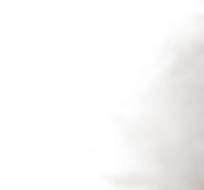
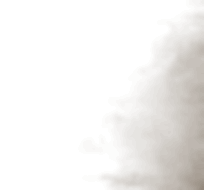
Add files via upload

Changed region(s): [[0.5882, 0.2105, 1.0, 1.0], [0.7941, 0.6316, 0.8235, 0.6579], [0.7647, 0.6842, 0.7941, 0.7105]]

diff --git a/src/styles/menu.css b/src/styles/menu.css
@@ -114,7 +114,8 @@
   top: 0;
   width: 30%;
   height: auto;
-  opacity: 0.55;
+  mix-blend-mode: multiply;
+  opacity: 0.8;
 }
 
 .backdrop-mountain {
@@ -123,7 +124,8 @@
   top: 2%;
   width: 40%;
   height: auto;
-  opacity: 0.55;
+  mix-blend-mode: multiply;
+  opacity: 0.75;
 }
 
 /* 棋盘背后的暖光晕:模拟参考图里棋盘周围那圈打光,比棋盘本身大一圈,
@@ -220,22 +222,34 @@
 }
 
 .hero-board-wrap {
+  position: relative;
   width: 94%;
   max-width: 400px;
   animation: hero-settle 900ms cubic-bezier(0.22, 1, 0.36, 1) both;
 }
 
+/* 棋盘正下方的深色接触阴影椭圆,压在棋盘底边一点点,制造"棋盘边缘
+   陷进阴影里"的贴合感,而不是悬空的一整块投影 */
+.hero-board-shadow {
+  position: absolute;
+  left: 8%;
+  right: 8%;
+  bottom: 2%;
+  height: 14%;
+  border-radius: 50%;
+  background: radial-gradient(ellipse closest-side, rgba(40, 26, 12, 0.55), rgba(40, 26, 12, 0.22) 60%, transparent 85%);
+  mix-blend-mode: multiply;
+  filter: blur(6px);
+  z-index: 0;
+}
+
 .hero-board-photo {
+  position: relative;
+  z-index: 1;
   display: block;
   width: 100%;
   height: auto;
-  /* 抠图之后图片本身只剩棋盘和它最贴身的一点点阴影,不再带大范围的
-     投影渐变——所以这里的投影不能太克制,得靠两层 drop-shadow 叠出
-     "棋盘真的搁在桌面上"的重量感:一层贴近棋盘边缘、颜色深一点，
-     模拟接触阴影;一层范围更大、更淡，模拟环境光扩散 */
-  filter:
-    drop-shadow(0 8px 10px rgba(30, 20, 8, 0.30))
-    drop-shadow(0 26px 30px rgba(30, 20, 8, 0.28));
+  filter: drop-shadow(0 10px 14px rgba(30, 20, 8, 0.22));
 }
 
 @keyframes hero-settle {

diff --git a/src/components/HeroBoard.jsx b/src/components/HeroBoard.jsx
@@ -12,6 +12,13 @@ export default function HeroBoard() {
   return (
     <div className="hero-board-outer">
       <div className="hero-board-wrap">
+        {/* 独立的接触阴影:抠图之后棋盘图片本身不再带阴影渐变,单靠图片
+            上的 CSS filter drop-shadow 在偏暖偏深的背景上对比度不够,
+            肉眼几乎看不出来。这里单独铺一层深色椭圆虚影,用
+            mix-blend-mode: multiply 叠加,不管背景色多深都能读出"棋盘
+            压在桌面上"的重量感,而不是纯粹依赖 filter 那种容易被背景
+            吃掉的效果 */}
+        <div className="hero-board-shadow" aria-hidden="true" />
         <img className="hero-board-photo" src="/board-hero-cutout.png" alt="棋盘装饰" />
       </div>
     </div>
